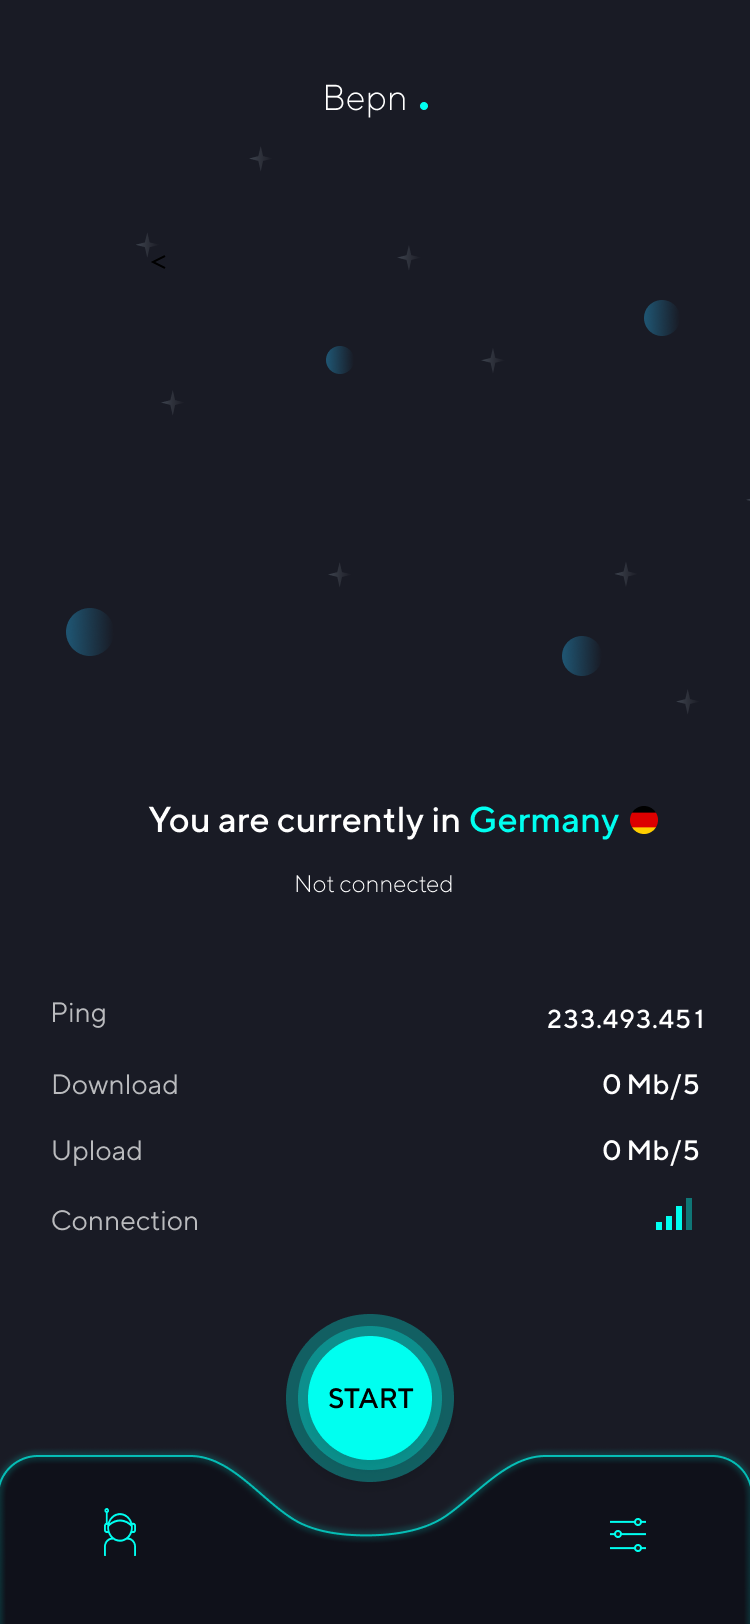
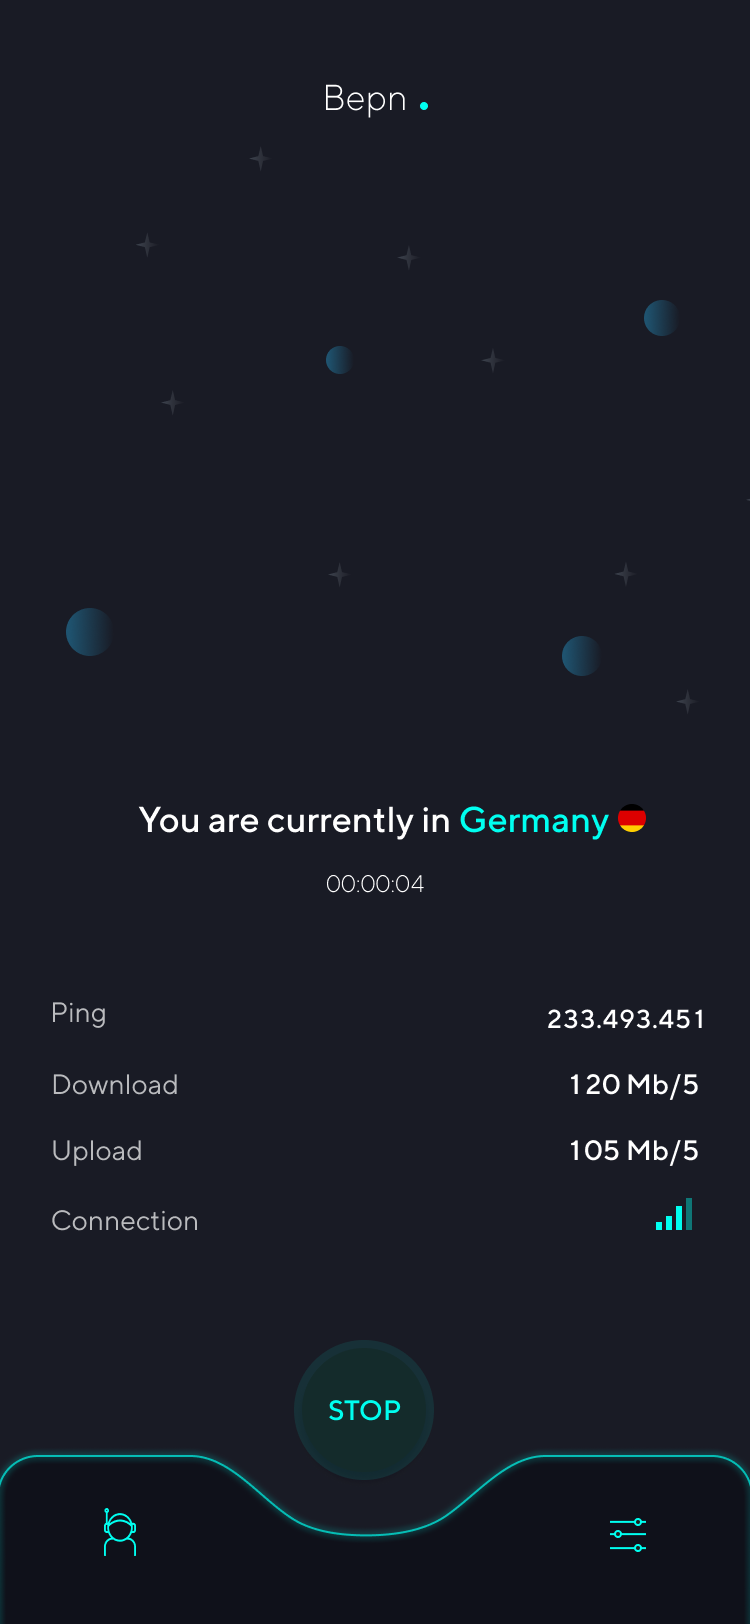
Add Vercel/Netlify SPA rewrite config, pick up Bepn copy/palette pass
- vercel.json: rewrite all paths to /index.html so client-side
  routing works on Vercel.
- public/_redirects: same fallback for Netlify.
- src/pages/bepn.tsx: refreshed palette (white/navy/cyan), rewritten
  section copy, swapped the START/STOP control-state labels, and
  added a small palette-swatch row under "Building the universe."
- Picked up the connected/disconnected state image swap that went
  with the copy pass.

Verified `pnpm run build` succeeds cleanly (dist/ produced, no
build errors) before committing.

diff --git a/src/pages/bepn.tsx b/src/pages/bepn.tsx
@@ -1,8 +1,8 @@
 import { useEffect } from "react"
 
-const CYAN = "#55F1F3"
-const BLACK = "#090909"
-const OFF_WHITE = "#F6F6F2"
+const CYAN = "#00FFF0"
+const BLACK = "#191B25"
+const OFF_WHITE = "#FFFFFF"
 
 const images = {
   // Replace these paths with your exported BEPN images
@@ -163,9 +163,9 @@ export default function Bepn() {
             }}
           >
             BEPN reimagines the traditional VPN experience as a spatial
-            journey. Instead of navigating technical lists and settings,
-            users explore countries, connections and signals through a visual
-            digital landscape.
+            journey. The user becomes the astronaut, exploring a universe of
+            countries, connections and signals instead of navigating technical
+            lists and settings.
           </p>
         </div>
 
@@ -269,6 +269,25 @@ export default function Bepn() {
 
           <div
             style={{
+              display: "flex",
+              gap: "12px",
+              flexWrap: "wrap",
+              marginTop: "-48px",
+              marginBottom: "72px",
+              fontSize: "12px",
+              letterSpacing: "0.08em",
+              textTransform: "uppercase",
+            }}
+          >
+            <span>#FFFFFF</span>
+            <span style={{ opacity: 0.35 }}>·</span>
+            <span>#191B25</span>
+            <span style={{ opacity: 0.35 }}>·</span>
+            <span style={{ color: CYAN }}>#00FFF0</span>
+          </div>
+
+          <div
+            style={{
               display: "grid",
               gridTemplateColumns: "repeat(3, 1fr)",
               gap: "22px",
@@ -278,21 +297,21 @@ export default function Bepn() {
             <VisualCard
               eyebrow="Color"
               title="Cyan signals"
-              text="Bright cyan details create contrast against the dark interface and act as visual signals throughout the experience."
+              text="White, deep navy and electric cyan form the core palette, keeping the interface tied to the universe concept while making key actions easy to scan."
               image={images.palette}
             />
 
             <VisualCard
               eyebrow="Illustration"
               title="Space environments"
-              text="Isometric illustrations turn the VPN experience into a small exploratory world."
+              text="Isometric illustrations build the explorer narrative: the user is the astronaut moving through a universe of locations."
               image={images.illustration}
             />
 
             <VisualCard
               eyebrow="Icons"
               title="Light navigation"
-              text="Linear iconography keeps secondary controls quiet while maintaining the visual language."
+              text="Linear cyan icons keep navigation visually light, helping secondary actions stay quiet around the main connection control."
               image={images.icons}
             />
           </div>
@@ -333,9 +352,9 @@ export default function Bepn() {
               marginTop: "36px",
             }}
           >
-            Server selection becomes an explorable network. Countries behave
-            like points within a digital map rather than rows inside a
-            conventional menu.
+            Server selection becomes an explorable network of flags. Users
+            can move around the map, discover locations visually and keep the
+            experience closer to exploration than a conventional dropdown.
           </p>
 
           <div
@@ -433,8 +452,10 @@ export default function Bepn() {
                 marginTop: "34px",
               }}
             >
-              The primary connection control remains visually dominant while
-              the rest of the interface stays lightweight around it.
+              The primary connection control remains the strongest visual
+              element in the interface. Positioned at the bottom center, it
+              stays easy to reach while secondary navigation remains lighter
+              around it.
             </p>
 
             <div
@@ -448,11 +469,11 @@ export default function Bepn() {
                 letterSpacing: "0.08em",
               }}
             >
-              <span>START</span>
-              <span style={{ color: CYAN }}>→</span>
-              <span>CONNECTING</span>
-              <span style={{ color: CYAN }}>→</span>
-              <span>CONNECTED</span>
+              <span style={{ opacity: 0.55 }}>STOP</span>
+              <span style={{ color: CYAN }}>·</span>
+              <span style={{ color: CYAN }}>START</span>
+              <span style={{ color: CYAN }}>·</span>
+              <span style={{ opacity: 0.55 }}>STOP</span>
             </div>
           </div>
 
